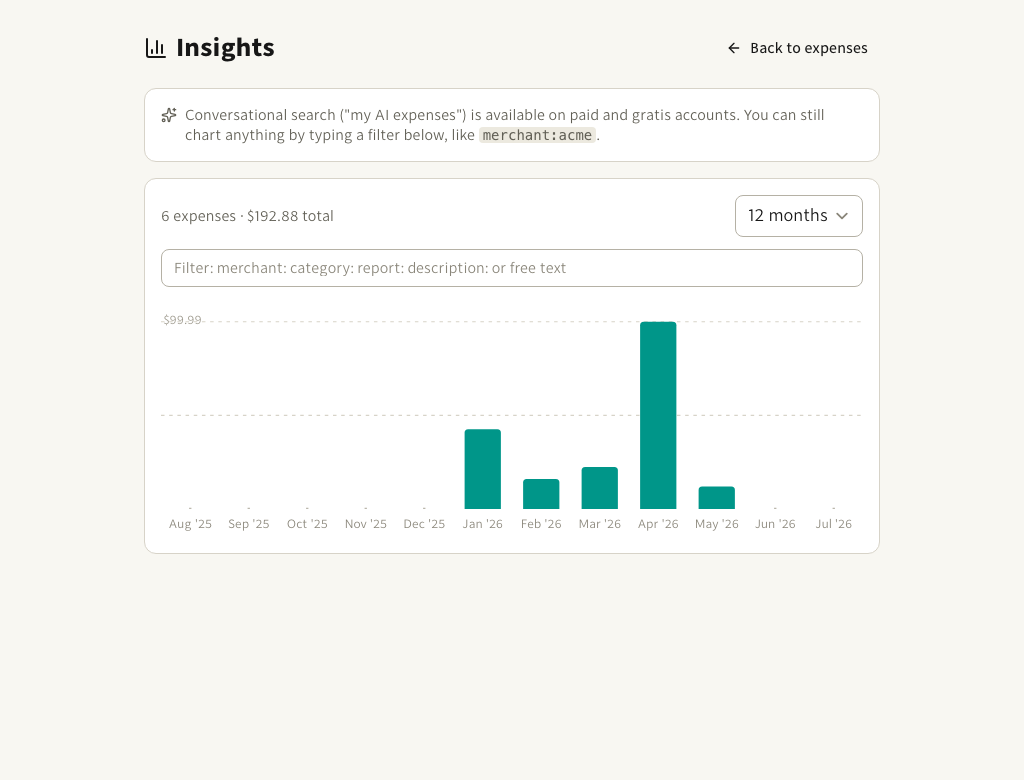
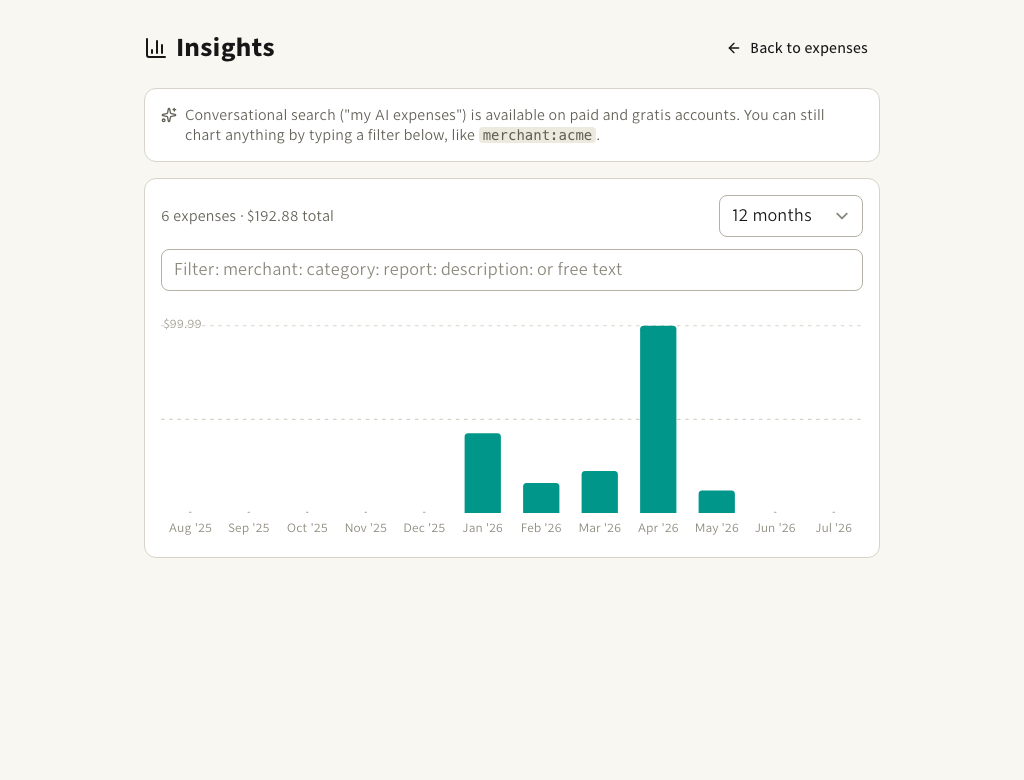
feat(insights): this-year window, filter suggestions, and gentler Try buttons
Three refinements from first use: the window selector gains "This year"
(calendar January through the current month, anchored on the browser's
local today like every window); the filter input gets the same datalist
suggestions the home search box offers (merchants, categories, reports
with counts, operator-prefixed values); and the Try buttons now just
fill the prompt so you can see and edit the question before charting it.

diff --git a/app/routes/insights.tsx b/app/routes/insights.tsx
@@ -1,14 +1,16 @@
-import { ChartColumn, Sparkles } from "lucide-react";
+import { ChartColumn, Sparkles, X } from "lucide-react";
 import { useEffect, useMemo, useState } from "react";
 import { useFetcher } from "react-router";
 import { PageShell } from "~/components/PageShell";
 import { Card } from "~/components/ui/Card";
 import { Button } from "~/components/ui/Button";
+import { Input } from "~/components/ui/Input";
 import { Select } from "~/components/ui/Select";
 import { MonthlyChart } from "~/components/MonthlyChart";
 import { requireUser } from "~/lib/auth.server";
 import { readAccount } from "~/lib/db/accounts";
 import { readExpenses } from "~/lib/db/expenses";
+import { countLabel } from "~/lib/format";
 import {
   accountHasAI,
   insightExpense,
@@ -16,7 +18,7 @@ import {
   monthlyTotals,
 } from "~/lib/insights";
 import { translateInsightQuery, LLMError } from "~/lib/insights-ai.server";
-import { todayDate } from "~/lib/format";
+import { useToday } from "~/lib/use-today";
 import { formString, unknownIntent } from "~/lib/validation";
 import type { Route } from "./+types/insights";
 
@@ -90,11 +92,17 @@ interface TranslateErr {
   error: string;
 }
 
-const MONTH_OPTIONS = [
+/** Chart windows. "year" means the calendar year so far (January 1
+ * through the current month), anchored on the browser's local today;
+ * the numeric strings are trailing month counts, "all" is everything. */
+type Window = "6" | "12" | "24" | "all" | "year";
+
+const WINDOW_OPTIONS: { value: Window; label: string }[] = [
+  { value: "year", label: "This year" },
   { value: "6", label: "6 months" },
   { value: "12", label: "12 months" },
   { value: "24", label: "24 months" },
-  { value: "0", label: "All time" },
+  { value: "all", label: "All time" },
 ];
 
 const EXAMPLES = ["my AI expenses", "coffee", "software", "travel"];
@@ -102,20 +110,31 @@ const EXAMPLES = ["my AI expenses", "coffee", "software", "travel"];
 export default function InsightsPage({ loaderData }: Route.ComponentProps) {
   const fetcher = useFetcher<typeof action>();
   const [query, setQuery] = useState("");
-  const [months, setMonths] = useState(12);
-  // The month window anchors on the browser's local today (timezone rule:
-  // the server must not guess the user's day), so the chart fills in
-  // after mount like home's future badges.
-  const [today, setToday] = useState("");
-  useEffect(() => setToday(todayDate()), []);
+  const [window_, setWindow] = useState<Window>("12");
+  const [ask, setAsk] = useState("");
+  const today = useToday();
 
   const result = fetcher.data as TranslateOk | TranslateErr | undefined;
   useEffect(() => {
     if (result?.ok) {
       setQuery(result.query);
-      setMonths(result.months);
+      // The AI picks a trailing window (0 = all time); "year" is a
+      // viewer-side convenience the model never returns.
+      setWindow(
+        result.months === 0 ? "all" : (String(result.months) as Window),
+      );
     }
   }, [result]);
+
+  const months = useMemo(() => {
+    if (window_ === "all") return 0;
+    if (window_ === "year") {
+      // January through the current month: walking back from today's
+      // month by its 1-based month number lands on January 1.
+      return today ? Number(today.slice(5, 7)) : 12;
+    }
+    return Number(window_);
+  }, [window_, today]);
 
   const buckets = useMemo(
     () =>
@@ -125,6 +144,30 @@ export default function InsightsPage({ loaderData }: Route.ComponentProps) {
   const total = buckets.reduce((sum, b) => sum + b.total, 0);
   const count = buckets.reduce((sum, b) => sum + b.count, 0);
   const busy = fetcher.state !== "idle";
+
+  const suggestions = useMemo(() => {
+    const merchants = new Map<string, number>();
+    const categories = new Map<string, number>();
+    const reports = new Map<string, number>();
+    for (const e of loaderData.expenses) {
+      if (e.type === "receipt" && e.merchant) {
+        merchants.set(e.merchant, (merchants.get(e.merchant) ?? 0) + 1);
+      }
+      if (e.category) {
+        categories.set(e.category, (categories.get(e.category) ?? 0) + 1);
+      }
+      if (e.report) {
+        reports.set(e.report, (reports.get(e.report) ?? 0) + 1);
+      }
+    }
+    const byCount = (a: [string, number], b: [string, number]) =>
+      b[1] - a[1] || a[0].localeCompare(b[0]);
+    return {
+      merchants: [...merchants.entries()].toSorted(byCount),
+      categories: [...categories.entries()].toSorted(byCount),
+      reports: [...reports.entries()].toSorted(byCount),
+    };
+  }, [loaderData.expenses]);
 
   return (
     <PageShell
@@ -140,13 +183,15 @@ export default function InsightsPage({ loaderData }: Route.ComponentProps) {
               Describe what you want to see
             </label>
             <div className="flex gap-2">
-              <input
+              <Input
                 id="insights-ask"
                 name="text"
                 type="text"
+                value={ask}
+                onChange={(e) => setAsk(e.target.value)}
                 autoComplete="off"
                 placeholder='e.g. "my AI expenses"'
-                className="min-w-0 flex-1 rounded-lg border border-gray-300 bg-white px-3 py-2 text-sm dark:border-gray-600 dark:bg-gray-800 dark:text-gray-100"
+                className="min-w-0 flex-1"
               />
               <Button type="submit" disabled={busy}>
                 <Sparkles aria-hidden="true" className="h-4 w-4" />
@@ -159,14 +204,7 @@ export default function InsightsPage({ loaderData }: Route.ComponentProps) {
                 <button
                   key={ex}
                   type="button"
-                  onClick={() => {
-                    setQuery(ex);
-                    if (!busy)
-                      void fetcher.submit(
-                        { intent: "translate", text: ex },
-                        { method: "post" },
-                      );
-                  }}
+                  onClick={() => setAsk(ex)}
                   className="rounded-full border border-gray-300 px-2.5 py-0.5 text-gray-600 hover:bg-gray-50 dark:border-gray-600 dark:text-gray-300 dark:hover:bg-gray-800"
                 >
                   {ex}
@@ -205,29 +243,62 @@ export default function InsightsPage({ loaderData }: Route.ComponentProps) {
           </p>
           <Select
             aria-label="Time window"
-            value={String(months)}
-            onChange={(e) => setMonths(Number(e.target.value))}
-            className="w-32"
+            value={window_}
+            onChange={(e) => setWindow(e.target.value as Window)}
+            className="w-36"
           >
-            {MONTH_OPTIONS.map((o) => (
+            {WINDOW_OPTIONS.map((o) => (
               <option key={o.value} value={o.value}>
                 {o.label}
               </option>
             ))}
           </Select>
         </div>
-        <label htmlFor="insights-query" className="sr-only">
-          Filter (merchant: category: report: or free text)
-        </label>
-        <input
-          id="insights-query"
-          type="text"
-          value={query}
-          onChange={(e) => setQuery(e.target.value)}
-          placeholder="Filter: merchant: category: report: description: or free text"
-          autoComplete="off"
-          className="mb-4 w-full rounded-lg border border-gray-300 bg-white px-3 py-2 text-sm dark:border-gray-600 dark:bg-gray-800 dark:text-gray-100"
-        />
+        <div className="relative mb-4">
+          <Input
+            id="insights-query"
+            list="insights-filter-suggestions"
+            type="text"
+            value={query}
+            onChange={(e) => setQuery(e.target.value)}
+            placeholder="Filter: merchant: category: report: description: or free text"
+            autoComplete="off"
+            className="w-full pr-9"
+          />
+          {query ? (
+            <button
+              type="button"
+              onClick={() => setQuery("")}
+              aria-label="Clear filter"
+              className="absolute right-2 top-1/2 -translate-y-1/2 rounded-full p-1.5 text-gray-500 transition-colors hover:bg-gray-100 hover:text-gray-600 dark:text-gray-400 dark:hover:bg-gray-800 dark:hover:text-gray-300"
+            >
+              <X aria-hidden="true" className="h-4 w-4" />
+            </button>
+          ) : null}
+          <datalist id="insights-filter-suggestions">
+            {suggestions.merchants.map(([name, c]) => (
+              <option
+                key={`op-merchant:${name}`}
+                value={`merchant:${name}`}
+                label={`${countLabel(c)} as a merchant`}
+              />
+            ))}
+            {suggestions.categories.map(([name, c]) => (
+              <option
+                key={`op-category:${name}`}
+                value={`category:${name}`}
+                label={`${countLabel(c)} in this category`}
+              />
+            ))}
+            {suggestions.reports.map(([name, c]) => (
+              <option
+                key={`report:${name}`}
+                value={`report:${name}`}
+                label={`${countLabel(c)} as a report`}
+              />
+            ))}
+          </datalist>
+        </div>
         {today ? (
           <MonthlyChart buckets={buckets} />
         ) : (
